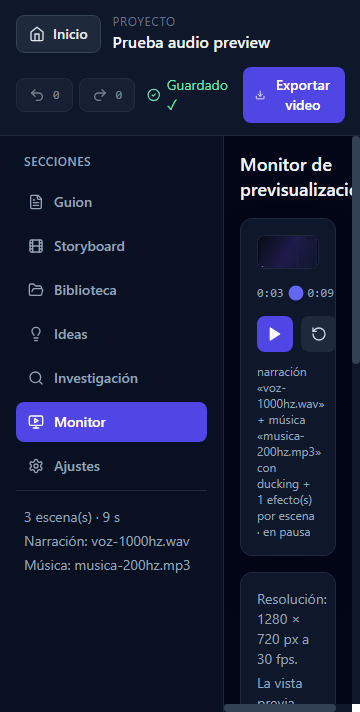
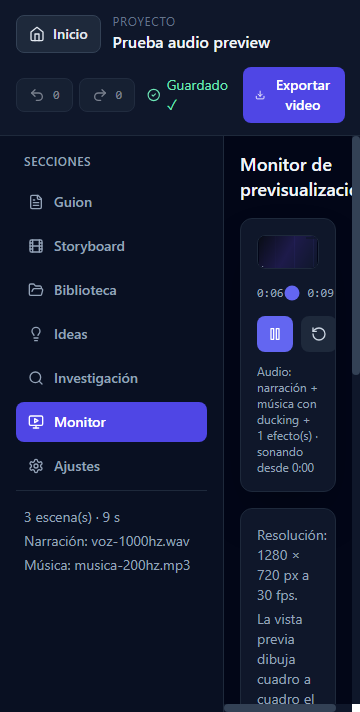
docs(evidencias): fases 17-20 verificadas con audio, cuadros y srt reales
Actualiza README, ROADMAP, CHANGELOG, PROJECT_STATUS y el README de artifacts con
lo comprobado en Chromium y ffmpeg, y con las limitaciones que siguen abiertas.

Changed region(s): [[0.7028, 0.4017, 0.9167, 0.9888], [0.9778, 0.4944, 1.0, 0.5253]]

diff --git a/PROJECT_STATUS.md b/PROJECT_STATUS.md
@@ -24,11 +24,15 @@ verificado.
 | Límite móvil | **Probado (simulado)** | Con UA de Android, una petición de 1080p/60 se exporta a 1280×720/30 (`mobileLimited=true`). No se probó en un teléfono real. |
 | Clips de video en escenas | **Probado (WebM y MP4)** | WebM VP8 de 1,2 s en escena de 2,5 s: el timecode interno vuelve a ~0,2 s a los 1,4 s (bucle); en escena de 0,8 s se recorta. MP4 H.264 (`avc1`, 640×360, 2 s) en escena de 3 s: píxel (98,14,26) en t=0,5 s, (8,103,26) en t=1,5 s y otra vez (98,14,26) en t=2,5 s (bucle), medido en el canvas y en el WebM exportado. El clip se reproduce mudo: su audio propio se ignora. |
 | Narración WAV | **Probado** | WAV PCM 48 kHz estéreo (voz TTS). Export de 6 s: Opus 48 kHz, pico 0,58, RMS −20,8 dBFS, correlación 0,9992 con la fuente y desfase 0 ms. |
-| Subtítulos editables | **Probado** | Cada escena tiene su lista de subtítulos (`scene.subtitles`), independiente del texto de narración. Se pueden añadir, editar y borrar en el taller de guion; se reparten en partes iguales de la duración de la escena y se dibujan en el video. Export real de 4 s con dos subtítulos en una escena de 2 s: los cuadros en t = 0,5 s y t = 1,5 s muestran «PRIMERA LINEA EDITABLE» y «SEGUNDA LINEA DISTINTA» en el mismo recuadro inferior. Antes se derivaban de `text.split('. ')` y no se podían editar; ahora no se genera ninguno si la lista está vacía. |
+| Subtítulos editables | **Probado** | Cada escena tiene su lista de subtítulos (`scene.subtitles`), independiente del texto de narración. Se añaden, editan y borran en el taller de guion y cada línea puede tener su propio inicio y duración. Export real de 4 s con dos subtítulos en una escena de 2 s: los cuadros en t = 0,5 s y t = 1,5 s muestran «PRIMERA LINEA EDITABLE» y «SEGUNDA LINEA DISTINTA». Antes se derivaban de `text.split('. ')` y no se podían editar; no se genera ninguno si la lista está vacía. |
+| Ventanas por subtítulo | **Probado** | Export real de 6 s con ventanas explícitas de 0,5–1,5 s y 3,0–4,5 s: los cuadros extraídos muestran «PRIMERA VENTANA» en t = 1,0 s, «SEGUNDA VENTANA» en t = 3,5 s y ningún subtítulo en t = 0,3, 2,0 y 5,0 s. Las escenas antiguas con solo texto siguen repartiéndose en partes iguales. |
+| Exportación .srt | **Probado** | Botón «Descargar .srt» en el modal y el panel de exportación. El archivo descargado desde la UI (97 bytes, dos líneas) lo lee ffmpeg y lo reescribe con los mismos timestamps; quemado con el filtro `subtitles` sobre el video de la fase 18 aparece en t = 0,8 s y 3,6 s y no en t = 2,0 s. También se multiplexó como pista `subrip` en un MKV junto al video. |
+| Historial persistente | **Probado** | El historial de 50 pasos se guarda en el almacén `history` de IndexedDB y se restaura al abrir el proyecto. En Chromium: borrar la segunda escena, recargar la página, abrir el proyecto → el header muestra «Deshacer (1 pasos)»; Ctrl+Z restaura «Escena B original» con su narración y su subtítulo, Ctrl+Y la quita y Ctrl+Z la vuelve a restaurar. Se borra con el proyecto. |
 | Efecto de sonido por escena | **Probado** | En el taller de guion se asigna un audio de la Biblioteca como SFX de una escena (`scene.sfxAssetId`); suena una vez al inicio de la escena, mezclado con narración y música. Export real de 4 s (dos escenas de 2 s, SFX en la segunda): la componente de 4 kHz vale 0,0480 en t = 2,0–2,3 s y 0,0000 en 0,4–0,7 s y en 2,4–2,7 s. |
+| Vista previa con audio | **Probado** | El Monitor reproduce la mezcla completa (`prepareProjectAudio`) con un `AudioContext`. Se capturó su salida real (MediaStreamDestination del `GainNode`) en Chromium: voz 1 kHz a 0,0376 y música 200 Hz a 0,0115 con voz; mute a 0,0000; música a 0,0355 sin voz (31 % con voz, mismo ducking que la exportación); SFX de 4 kHz en la segunda escena. La fuente arranca en el offset pedido, se detiene al pausar y se recoloca al hacer scrub; el botón de silencio lleva la ganancia a 0 y a 1. |
 | Música de fondo con ducking | **Probado** | Un audio se marca aparte como «música» en la Biblioteca; se mezcla en bucle con la narración y baja al 30 % mientras hay voz. Export real por la UI de 4 s (voz 1 kHz de 0 a 2 s + música 200 Hz): la música medida a 200 Hz vale 0,0593 sin voz y 0,0182 con voz (30,7 %, −10,3 dB) y vuelve a subir en el silencio. El volumen general de la música (0–100 %) se guarda en Ajustes del proyecto. |
 | Compilación | **Probado** | `npx tsc --noEmit` sin errores; `npm run build` correcto. |
-| Pruebas unitarias | **Probado** | `npx vitest run`: 32 pruebas en 8 archivos. Persistencia real en IndexedDB (guardar, recargar el módulo de almacenamiento y recuperar con escena), nombre de archivo ASCII, límite móvil con user agent de Android, opacidad del Fundido cuadro a cuadro, recorte/relleno de la narración, envolvente de ducking y bucle de la música, reparto de subtítulos y el historial de deshacer/rehacer (incluido restaurar una escena borrada con su contenido). No cubren la UI ni una exportación completa. |
+| Pruebas unitarias | **Probado** | `npx vitest run`: 43 pruebas en 10 archivos. Persistencia real en IndexedDB (guardar, recargar el módulo y recuperar; historial persistido y restaurado), nombre de archivo ASCII, límite móvil con user agent de Android, opacidad del Fundido cuadro a cuadro, recorte/relleno de la narración, envolvente de ducking y bucle de la música, reparto y ventanas de subtítulos, generación de `.srt` y el historial de deshacer/rehacer (incluido restaurar una escena borrada con su contenido). No cubren la UI ni una exportación completa. |
 
 ## No implementado o no verificado
 
@@ -40,11 +44,11 @@ verificado.
 | MP4/H.264 de salida | **No implementado** | La salida es siempre WebM. Un MP4 H.264 sí funciona como clip dentro de una escena (verificado en Chromium). |
 | Clips con audio propio | **No implementado** | El clip de escena se decodifica mudo; la única pista de audio exportada es la narración del proyecto. |
 | Códecs MP4 distintos de H.264 | **No verificado** | Solo se probó `avc1` (H.264) en Chromium; HEVC, AV1 y navegadores sin decodificador H.264 quedan sin probar. |
-| Pruebas de UI y de exportación | **No existen** | Las 17 pruebas cubren lógica pura y persistencia, no clics reales ni el archivo exportado. |
+| Pruebas de UI y de exportación | **No existen** | Las 43 pruebas cubren lógica pura y persistencia, no clics reales ni el archivo exportado. |
 | Safari y Firefox | **No verificado** | Sin WebCodecs se usaría el respaldo en tiempo real; no se probó. |
 | Narración por escena | **No implementado** | Una sola pista de narración para todo el proyecto; la música es global y los efectos de sonido sí son por escena. |
-| Deshacer / rehacer | **Probado** | Historial de hasta 50 estados del proyecto. Ctrl+Z deshace y Ctrl+Y / Ctrl+Shift+Z rehace; el header muestra botones con el número de pasos disponibles. En Chromium: borrar la segunda escena (2 → 1), Ctrl+Z la restaura con su título, su SFX y su subtítulo, Ctrl+Y la vuelve a quitar y Ctrl+Shift+Z la rehace. Las pulsaciones seguidas en un mismo campo de texto se agrupan en un solo paso. Prueba automatizada: `history.test.ts`, 5 casos. |
-| Historial de versiones guardadas | **No implementado** | El historial vive en memoria mientras el proyecto está abierto; al recargar se reinicia. |
+| Deshacer / rehacer | **Probado** | Historial de hasta 50 estados del proyecto. Ctrl+Z deshace y Ctrl+Y / Ctrl+Shift+Z rehace; el header muestra botones con el número de pasos disponibles. En Chromium: borrar la segunda escena (2 → 1), Ctrl+Z la restaura con su título, su SFX y su subtítulo, Ctrl+Y la vuelve a quitar y Ctrl+Shift+Z la rehace. Las pulsaciones seguidas en un mismo campo de texto se agrupan en un solo paso. Pruebas automatizadas: `history.test.ts` (5) e `history-persistence.test.ts` (3). |
+| Historial de versiones guardadas | **No implementado** | El deshacer persiste hasta 50 pasos, pero no hay versiones con nombre y fecha ni restauración más allá de ese límite. |
 | Persistencia más allá del navegador | **No existe** | IndexedDB local; borrar datos del sitio borra los proyectos. |
 
 ## Notas sobre documentación antigua

diff --git a/README.md b/README.md
@@ -19,7 +19,7 @@ Otros comandos:
 
 ```bash
 npm run build     # tsc + vite build
-npm test          # Vitest (32 pruebas de lógica y persistencia)
+npm test          # Vitest (43 pruebas de lógica y persistencia)
 ```
 
 ## Qué funciona hoy
@@ -31,8 +31,10 @@ npm test          # Vitest (32 pruebas de lógica y persistencia)
 - **Taller de guion**: crear, editar y eliminar escenas (con confirmación), duración por escena, texto de
   narración, **subtítulos editables**, movimiento de cámara, transición y **reordenar escenas arrastrando**.
 - **Subtítulos editables**: cada escena tiene su propia lista de subtítulos, independiente de la narración.
-  Se pueden añadir, editar y borrar; se reparten en partes iguales de la duración de la escena y se dibujan
-  en el recuadro inferior del video exportado.
+  Se pueden añadir, editar y borrar, y cada línea tiene su propio **inicio y duración** (o el reparto
+  automático en partes iguales). El renderer la dibuja solo dentro de su ventana de tiempo.
+- **Exportación de subtítulos**: el modal y el panel de exportación ofrecen «Descargar .srt» con todos los
+  subtítulos del proyecto y sus timestamps absolutos.
 - **Imágenes por escena**: se elige una imagen subida a la Biblioteca (se guarda `imageAssetId`, y la URL se
   reconstruye desde el blob al recargar).
 - **Clips de video por escena**: un MP4 (H.264) o WebM de la Biblioteca se dibuja cuadro a cuadro con
@@ -50,9 +52,11 @@ npm test          # Vitest (32 pruebas de lógica y persistencia)
   Ajustes.
 - **Efectos de sonido por escena**: cada escena puede llevar un audio corto de la Biblioteca como SFX, que
   suena una vez al inicio de la escena mezclado con la narración y la música.
+- **Monitor con audio**: la vista previa reproduce la misma mezcla que la exportación (narración, música con
+  ducking y efectos), se detiene al pausar, se recoloca al hacer scrub y tiene un mute real.
 - **Deshacer / rehacer**: Ctrl+Z deshace y Ctrl+Y o Ctrl+Shift+Z rehace hasta 50 pasos (escenas, textos,
-  subtítulos, reordenar, asignaciones). La cabecera muestra cuántos pasos hay disponibles. El historial vive
-  en memoria mientras el proyecto está abierto y se reinicia al recargar.
+  subtítulos, reordenar, asignaciones). La cabecera muestra cuántos pasos hay disponibles. El historial se
+  guarda en IndexedDB y se restaura al volver a abrir el proyecto.
 - **Autoguardado** con 1 segundo de debounce e indicador permanente en la cabecera
   (`Guardado ✓` / `Guardando...` / `Error al guardar`). Si IndexedDB falla por cuota, el mensaje aparece
   visible bajo la cabecera.
@@ -73,20 +77,21 @@ npm test          # Vitest (32 pruebas de lógica y persistencia)
 - **No hay app Android publicada.** Solo queda `capacitor.config.json`; no hay build ni paridad probada.
 - **Solo WebM.** No se exporta MP4/H.264. En Safari y Firefox (sin WebCodecs) se usa el respaldo
   `MediaRecorder`, cuyo WebM no declara duración en los metadatos.
-- **Subtítulos**: no hay tiempos por subtítulo (se reparten a partes iguales en su escena), ni archivo
-  `.srt`/`.vtt` aparte, ni estilo configurable.
+- **Subtítulos**: hay tiempos individuales y exportación `.srt`, pero no `.vtt` ni estilos configurables; la
+  sincronización se ajusta a mano, sin editor de ondas.
 - **Audio**: MP3 y WAV funcionan como narración, música de fondo y efectos de escena (verificado con
   ffmpeg). Sigue habiendo una sola pista de narración para todo el proyecto, y la música y los efectos no
   tienen control de volumen propio (la música sí un volumen global en Ajustes).
 - **Clips de video**: el soporte depende de lo que el navegador pueda decodificar. Se probaron un WebM
   (VP8) y un MP4 H.264 dentro de escenas en Chromium; HEVC, AV1 y navegadores sin decodificador H.264 no se
   probaron. El audio propio del clip se ignora.
-- **Sin versiones guardadas del proyecto**: hay deshacer/rehacer en memoria, pero no un historial de
-  versiones persistente ni restauración tras recargar.
+- **Sin historial de versiones**: el deshacer persiste hasta 50 pasos, pero no hay versiones con nombre ni
+  restauración más allá de ese límite.
 - **Probado solo en Chromium.** El resto de navegadores está sin verificar.
-- **Cobertura de pruebas parcial**: 17 pruebas de Vitest cubren persistencia en IndexedDB (con
-  `fake-indexeddb`), nombre de archivo, límite móvil, opacidad del Fundido, recorte/relleno de narración y
-  la envolvente de ducking de la música. No hay pruebas de la UI ni de una exportación completa.
+- **Cobertura de pruebas parcial**: 43 pruebas de Vitest cubren persistencia en IndexedDB (proyectos,
+  historial y `fake-indexeddb`), nombre de archivo, límite móvil, opacidad del Fundido, recorte/relleno de
+  narración, envolvente de ducking, ventanas de subtítulos y generación de `.srt`. No hay pruebas de la UI ni
+  de una exportación completa.
 
 ## Estructura
 
@@ -94,9 +99,9 @@ npm test          # Vitest (32 pruebas de lógica y persistencia)
 src/
   App.tsx                 # shell: inicio, editor, modal de exportación, autoguardado
   components/             # HomeScreen, Modal/ConfirmDialog, VideoPlayer
-  engine/                 # renderEngine (canvas 2D), exporter (WebCodecs), audioTrack (narración)
+  engine/                 # renderEngine (canvas 2D), exporter (WebCodecs), audioTrack (mezcla), srt
   modules/                # Guion, Storyboard, Biblioteca, Ideas, Investigación
-  services/storage/db.ts  # IndexedDB: proyectos y blobs
+  services/storage/db.ts  # IndexedDB: proyectos, blobs e historial persistente
   services/history/       # deshacer/rehacer (50 pasos, lógica pura)
   data/                   # proyecto demo y fábrica de proyectos vacíos
 artifacts/                # evidencias de verificación (videos, cuadros, WAV) y su README

diff --git a/artifacts/README.md b/artifacts/README.md
@@ -99,13 +99,46 @@ ejemplo descargados de internet. Las cifras (duración, resolución, fps, canale
 El resto de la prueba es automatizado: `src/__tests__/history.test.ts` (5 casos, incluido deshacer un borrado
 de escena y recuperar su contenido) y `src/__tests__/subtitles.test.ts` (5 casos).
 
+## Fase 17 — audio en la vista previa del Monitor
+
+| Archivo | Qué es | Qué verifica |
+| :--- | :--- | :--- |
+| `phase17-preview-audio.webm` | Audio de 3,9 s capturado de la salida real del Monitor (un `MediaStreamDestination` conectado al mismo `GainNode` que suena), reproduciendo el proyecto de prueba y pulsando Silenciar / Activar sonido. | La vista previa usa la mezcla completa: voz de 1 kHz a 0,0376 con música de 200 Hz a 0,0115 (ducking), silencio de 0,0000 durante el mute y música a 0,0355 sin voz (31 % con voz). El SFX de 4 kHz entra con la segunda escena. |
+| `phase17-monitor-av.png` | Captura del Monitor (360×712) con el estado del audio. | El reproductor muestra la mezcla asignada y el estado de reproducción; el botón de silencio es el mismo que actúa sobre la ganancia. |
+
+Las medidas salen de extraer PCM con ffmpeg (`-f f32le -ac 1 -ar 48000`) y aplicar Goertzel en Node, igual que en la fase 13.
+
+## Fase 18 — tiempos individuales por subtítulo
+
+| Archivo | Qué es | Qué verifica |
+| :--- | :--- | :--- |
+| `phase18-subtitle-timings-ui.png` | Captura del taller de guion (360×712) con los campos «Inicio (s)» y «Duración (s)». | La UI lee y escribe los tiempos por línea (0,5 s / 1 s y 3 s / 1,5 s). |
+| `phase18-subtitle-windows.webm` | Export real de 6 s, VP9 1280×720@30, una escena con dos ventanas explícitas: 0,5–1,5 s y 3,0–4,5 s. | Cada subtítulo aparece solo en su ventana; en los huecos no se dibuja nada. |
+| `phase18-t0.3.png`, `phase18-t1.0.png`, `phase18-t2.0.png`, `phase18-t3.5.png`, `phase18-t5.0.png` | Cuadros extraídos con ffmpeg en t = 0,3, 1,0, 2,0, 3,5 y 5,0 s. | «PRIMERA VENTANA» en 1,0 s, «SEGUNDA VENTANA» en 3,5 s y ningún subtítulo en 0,3, 2,0 y 5,0 s. |
+
+## Fase 19 — exportación .srt
+
+| Archivo | Qué es | Qué verifica |
+| :--- | :--- | :--- |
+| `phase19-subtitulos.srt` | Archivo descargado desde el botón «Descargar .srt» de la UI (97 bytes). | Contiene dos bloques con timestamps absolutos `00:00:00,500 --> 00:00:01,500` y `00:00:03,000 --> 00:00:04,500`; ffmpeg lo lee y lo reescribe idéntico. |
+| `phase19-export-panel.png` | Captura del modal de exportación (360×712). | Muestra «Subtítulos: 2 línea(s)» y el botón «Descargar .srt» junto a Cancelar/Exportar. |
+| `phase19-subtitles-burned.mp4` | El video de la fase 18 con el `.srt` quemado por el filtro `subtitles` de ffmpeg. | El archivo es válido para ffmpeg junto al video: el subtítulo se ve en t = 0,8 s y 3,6 s y no en t = 2,0 s, respetando los tiempos absolutos. |
+| `phase19-burn-t0.8.png`, `phase19-burn-t2.0.png`, `phase19-burn-t3.6.png` | Cuadros del MP4 anterior. | El texto amarillo del `.srt` aparece y desaparece en los mismos tiempos que en el video original. |
+| `phase19-video-con-subtitulos.mkv` | El WebM de la fase 18 con el `.srt` multiplexado como pista de subtítulos (`-c:s srt`). | ffmpeg reconoce `Stream #0:1: Subtitle: subrip (srt)` dentro del contenedor. |
+
+## Fase 20 — historial persistente
+
+| Archivo | Qué es | Qué verifica |
+| :--- | :--- | :--- |
+| `phase20-history-after-reload.png` | Captura del header tras recargar la página y abrir el proyecto, después de un Ctrl+Z. | El historial sobrevive a la recarga: el botón muestra «Rehacer (1 pasos)» y el proyecto tiene otra vez 2 escenas / 5 s. Antes de deshacer, tras recargar, el header mostraba «Deshacer (1 pasos)»; Ctrl+Z restauró «Escena B original» con su contenido y Ctrl+Y la volvió a quitar. |
+
 ## Fase 11 — pruebas de comportamiento
 
 | Archivo | Qué es | Qué verifica |
 | :--- | :--- | :--- |
 | `phase11-export-after-refactor.webm` | La misma exportación de la fase 10 repetida después de extraer `fitNarrationChannels` para las pruebas. | El camino nuevo de narración (decodificar y recortar/rellenar muestras) produce el mismo audio: 5,00 s, RMS 0,0945 y correlación 0,9992 con el WAV, desfase 0. |
 
-Las pruebas automatizadas no generan archivos: se ejecutan con `npx vitest run` (32 pruebas en 8 archivos).
+Las pruebas automatizadas no generan archivos: se ejecutan con `npx vitest run` (43 pruebas en 10 archivos).
 
 ## Cómo reproducirlo
 

diff --git a/CHANGELOG.md b/CHANGELOG.md
@@ -3,6 +3,61 @@
 Los cambios de las dos últimas sesiones de trabajo. Las versiones anteriores (1.2.0 a 2.1.0) están en
 [docs/CHANGELOG.md](docs/CHANGELOG.md) y describen documentación de diseño, no funcionalidad verificada.
 
+## [Sin publicar] — 22 de noviembre de 2026 (fases 17–20)
+
+### Añadido
+
+- **Audio en la vista previa del Monitor** (fase 17): el reproductor prepara la misma mezcla que la
+  exportación (`prepareProjectAudio`: narración + música en bucle con ducking + efectos por escena) y la
+  reproduce con un `AudioContext`. La fuente se detiene al pausar y se recoloca al mover la barra de tiempo
+  o reiniciar; el botón de silencio controla un `GainNode` real (antes no hacía nada). El reproductor muestra
+  el estado del audio y el punto desde el que suena.
+
+- **Tiempos individuales por subtítulo** (fase 18): cada línea guarda opcionalmente `startSeconds` y
+  `durationSeconds`. El editor del taller de guion tiene campos de inicio y duración (y un enlace para volver
+  al reparto automático); el renderer dibuja cada subtítulo solo dentro de su ventana y no dibuja nada en
+  los huecos ni fuera de la escena. Las escenas guardadas con solo texto siguen usando el reparto en partes
+  iguales.
+
+- **Exportación .srt** (fase 19): botón «Descargar .srt» en el modal y en el panel de exportación. El
+  archivo incluye todos los subtítulos de todas las escenas con timestamps absolutos (`HH:MM:SS,mmm`),
+  omite líneas vacías y ventanas sin duración, y usa un nombre ASCII terminado en `.srt`.
+
+- **Historial persistente** (fase 20): el historial de hasta 50 pasos se guarda en un almacén de IndexedDB
+  (`history`, un registro por proyecto) y se restaura al abrir el proyecto, revalidando las URLs de medios de
+  cada instantánea. Se borra con el proyecto, se vuelca al volver al inicio y se intenta guardar al cerrar
+  la pestaña.
+
+### Verificado con archivos reales
+
+- `artifacts/phase17-preview-audio.webm`: audio capturado de la propia salida del Monitor (MediaStreamDestination
+  del `GainNode`) mientras se reproducía, se silenciaba y se reactivaba. Con ffmpeg y Goertzel: voz de 1 kHz a
+  0,0376 y música de 200 Hz a 0,0115 con voz; silencio (0,0000) durante el mute; música a 0,0355 sin voz
+  (≈31 % con voz, el mismo ducking que la exportación). El SFX de 4 kHz aparece al empezar la segunda escena.
+  En Chromium la fuente arrancó con offset 0, se detuvo al pausar y volvió a arrancar con offset 2,5 s tras
+  hacer scrub; el mute llevó la ganancia a 0 y a 1.
+- `artifacts/phase18-subtitle-windows.webm` y `phase18-t0.3/1.0/2.0/3.5/5.0.png`: export real de 6 s con dos
+  ventanas explícitas (0,5–1,5 s y 3,0–4,5 s). Los cuadros muestran «PRIMERA VENTANA» en t = 1,0 s,
+  «SEGUNDA VENTANA» en t = 3,5 s y ningún subtítulo en 0,3, 2,0 y 5,0 s.
+- `artifacts/phase19-subtitulos.srt`: archivo descargado desde el botón de la UI; ffmpeg lo lee y lo
+  reescribe con los mismos tiempos. Quemado con `subtitles` de ffmpeg sobre el video de la fase 18
+  (`phase19-subtitles-burned.mp4`, cuadros `phase19-burn-t0.8/2.0/3.6.png`) muestra el primer subtítulo en
+  t = 0,8 s, ninguno en t = 2,0 s y el segundo en t = 3,6 s. También se multiplexó como pista `subrip` en
+  `phase19-video-con-subtitulos.mkv`.
+- `artifacts/phase20-history-after-reload.png`: tras borrar la segunda escena, recargar la página y abrir el
+  proyecto, el header mostró «Deshacer (1 pasos)». Ctrl+Z restauró «Escena B original» con su narración y su
+  subtítulo; Ctrl+Y la volvió a quitar y Ctrl+Z la restauró otra vez.
+- `npx tsc --noEmit` sin errores, `npx vitest run` 43/43 en 10 archivos y `npm run build` correcto.
+
+### Limitaciones que siguen
+
+- El audio del Monitor se prepara al abrir la sección y se rehace al cambiar recursos, volumen o duración de
+  escenas; no hay pista de audio propia por clip de video.
+- No se exporta `.vtt` ni hay estilos configurables de subtítulos; los tiempos se ajustan a mano, sin
+  herramienta de sincronización.
+- El historial persiste los últimos 50 pasos del deshacer, no versiones con nombre ni restauración más allá
+  de ese límite.
+
 ## [Sin publicar] — 22 de noviembre de 2026 (fases 13–16)
 
 ### Añadido

diff --git a/ROADMAP.md b/ROADMAP.md
@@ -14,6 +14,8 @@ Hoy las ideas y la crítica de guion son textos fijos y heurísticas. Falta:
 
 ## 2. Reproducción y exportación más robustas
 
+- [x] Reproducción de audio en la vista previa del Monitor, con el mismo ducking que la exportación
+  (fase 17).
 - Verificar Safari y Firefox; allí WebCodecs no existe y la exportación cae al respaldo en tiempo real.
 - Añadir exportación MP4/H.264 (hoy la única salida es WebM).
 - Arreglar la duración del WebM del respaldo `MediaRecorder` (hoy no declara duración).
@@ -37,7 +39,9 @@ Hoy las ideas y la crítica de guion son textos fijos y heurísticas. Falta:
 - [x] Música de fondo global con mezcla y ducking (fase 13).
 - [x] Efecto de sonido por escena al inicio de la escena (fase 14).
 - [x] Subtítulos editables por escena, independientes de la narración (fase 15).
-- [ ] Tiempos por subtítulo y exportación a `.srt`/`.vtt`.
+- [x] Tiempos individuales por subtítulo (fase 18).
+- [x] Exportación de subtítulos a `.srt` (fase 19).
+- [ ] Exportación a `.vtt` y estilos configurables.
 - Recorte y ajuste de inicio de la narración desde la UI.
 - Puntos de entrada/salida y fundido propio de la música.
 
@@ -51,8 +55,9 @@ Hoy las ideas y la crítica de guion son textos fijos y heurísticas. Falta:
 - Sincronización entre dispositivos con backend real (el módulo simulado se eliminó).
 - Autenticación y datos por usuario.
 - Exportar/importar el proyecto completo como archivo para no depender del navegador.
-- [x] Deshacer/rehacer en memoria, hasta 50 pasos (fase 16).
-- Historial de versiones persistente (el deshacer actual se pierde al recargar).
+- [x] Deshacer/rehacer, hasta 50 pasos (fase 16).
+- [x] Historial de deshacer persistente en IndexedDB, restaurado al abrir el proyecto (fase 20).
+- Historial de versiones guardadas con nombre y fecha (más allá de los 50 pasos del deshacer).
 
 ## 6. Multiusuario (prioridad baja)
 
@@ -68,6 +73,6 @@ Hoy las ideas y la crítica de guion son textos fijos y heurísticas. Falta:
 
 ## 8. Calidad
 
-- Pruebas de la UI y de la exportación de punta a punta (hoy hay 17 pruebas de lógica pura y persistencia, sin navegador).
+- Pruebas de la UI y de la exportación de punta a punta (hoy hay 43 pruebas de lógica pura y persistencia, sin navegador).
 - Accesibilidad del editor (foco, teclado, anuncios de estado).
 - Idiomas: hoy toda la interfaz está en español.
